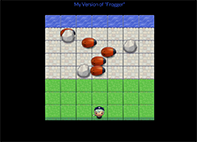
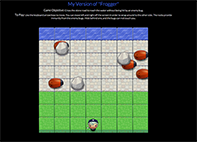
Adjust a tags so don't span entire width.

diff --git a/js/resumeBuilder.js b/js/resumeBuilder.js
@@ -27,7 +27,7 @@ var education = {
         'name': 'Hackbright Academy',
         'location': 'San Francisco, California',
         'place_id': 'ChIJIQBpAG2ahYAR_6128GcTUEo',
-        'degree': 'Technical Training in Full Stack Web Development',
+        'degree': 'Full Stack Web Development',
         'major': 'NA',
         'dates': 'Fall 2014  ',
         'url': 'https://hackbrightacademy.com/'
@@ -54,7 +54,12 @@ var education = {
         'dates': 'Fall 2015 - Winter 2016',
         'url': 'https://www.udacity.com/course/front-end-web-developer-nanodegree--nd001'
     }, {
-        'title': 'Python Courses: Object-Oriented, Collections, Functional Programming, RegEx, Flask',
+        'title': 'How to Use Git and GitHub',
+        'school': 'Udacity',
+        'dates': 'Fall 2015',
+        'url': 'https://www.udacity.com/course/how-to-use-git-and-github--ud775'
+    }, {
+        'title': 'Various Python Courses',
         'school': 'Treehouse',
         'dates': '2015',
         'url': 'https://teamtreehouse.com/'
@@ -115,35 +120,42 @@ var work = {
 };
 
 var projects = {
-    'project' : [{
-        'title' : 'Udacity FrontEnd Nanodegree',
-        'stack' : ['Javascript','jQuery','HTML5','CSS','HTML5 Canvas','GoogleMaps API'],
-        'url' : 'You are here!',
-        'dates' : 'Fall 2015 - Winter 2016',
-        'description' : 'This project is currently in progress and will have six mini projects upon completion. I signed up for the Udacity FrontEnd Nanodegree course in order to work on my fundamental understanding of responsive web design and optimization as well as continuing to work on my HTML, CSS, and Javascript skills. Including this resume page, and the associated portfolio site accompanying this page, I the link above will take you to a list of the pages with a brief description of their highlights.',
-        //'images: {'image href': [alt text, CaptionText, LargeImageSRC, liveURL], image href#2 : [ array of values]}
-        'images' : {'images/portfolio_197x142.png': ['Screenshot of Portfolio Home Page','More Stuff',                                            'images/portfolio_500x360.png'],
+     'project': [{
+      'title': 'Udacity FrontEnd Nanodegree',
+      'stack': ['Javascript', 'jQuery', 'HTML5', 'CSS', 'HTML5 Canvas', 'GoogleMaps API'],
+      'url': 'NA',
+      'dates': 'Fall 2015 - Winter 2016',
+      'description': 'This project is currently in progress and will have six mini projects upon completion. I signed up for the Udacity FrontEnd Nanodegree course in order to work on my fundamental understanding of responsive web design and optimization as well as continuing to work on my HTML, CSS, and Javascript skills. Including this resume page, and the associated portfolio site accompanying this page, I the link above will take you to a list of the pages with a brief description of their highlights.',
+      //'images: {'image href': [alt text, CaptionText, LargeImageSRC, liveURL], image href#2 : [ array of values]}
+      'images': {
+       'images/portfolio_197x142.png': ['Screenshot of Portfolio Home Page', 'More Stuff', 'images/portfolio_500x360.png'],
 
-        'images/resume_197x142.png':['Screenshot of Resume','More words...','images/resume_500x360.png'],
+       'images/resume_197x142.png': ['Screenshot of Resume', 'More words...', 'images/resume_500x360.png'],
 
-        'images/frogger_197x142.png': ['Screenshot of Arcade Game Webpage','Arcade game was designed to Cliche chia wayfarers vinyl distillery godard lomo. Portland 8-bit lumbersexual, viral +1 ugh stumptown. Pug bespoke 3 wolf moon brooklyn, raw denim vegan heirloom gastropub bitters. Meh brunch organic fanny pack tilde street art hammock pinterest, helvetica williamsburg XOXO meggings microdosing farm-to-table.','images/frogger_500x360.png', 'https://www.google.com/']}
-    }, {
-        'title' : 'Getgo',
-        'stack' : ['Python','Javascript','Flask', 'jQuery', 'Ajax', 'Jinja', 'HTML5', 'CSS', 'GoogleMaps API', 'Twitter API'],
-        'url' : 'https://getartandgo.herokuapp.com/',
-        'dates' : 'Fall 2014',
-        'description' : 'Getgo was my capstone project while attending Hackbright Academy. It was independantly developed in five weeks after five weeks of fullstack web development "bootcamp". I wanted to build an application to allow a user to find the best bike route to art and wine venues wuthin a certain distance of their current location within the city of Oakland CA. I also wanted to log the users travels for the day and report their adventure back to them.',
-        'images' : {'images/getgo_197x142.png':["Screenshot of Getgo Application Home Page", "Getgo Stuff", 'images/getgo_500x360.png'], 'images/getgo_route_197x142.png':["Second Screenshot of Getgo Application", "More Getgo Stuff", 'images/getgo_route_500x360.png'], 'images/getgo_report_197x142.png':["Second Screenshot of Getgo Application", "And More Getgo Stuff", 'images/getgo_report_500x360.png']}
-    }, {
-        'title' : 'Spiritual Corky',
-        'stack' : ['Python','Twitter API'],
-        'url' : 'https://twitter.com/spiritual_corky',
-        'dates' : 'Winter 2015',
-        'description' : 'ALSO MENTION N-grams  This project is a Python script I run from my Mac terminal. The script generates a mashup quote from the movies "Waiting for Guffman" and "Jesus Christ Superstar" using <a href = www.google.com class="inline_link">Markov Chains </a>, then uses the Twitter API to create live Twitter feed.',
-        'images' : {'images/corky_197x142.png':["Screenshot of Twitter Feed for Spiritual Corky", "Twitter Stuff", 'images/corky_500x360.png']}
+       'images/frogger_197x142.png': ['Screenshot of Arcade Game Webpage', 'Arcade game was designed to Cliche chia wayfarers vinyl distillery godard lomo. Portland 8-bit lumbersexual, viral +1 ugh stumptown. Pug bespoke 3 wolf moon brooklyn, raw denim vegan heirloom gastropub bitters. Meh brunch organic fanny pack tilde street art hammock pinterest, helvetica williamsburg XOXO meggings microdosing farm-to-table.', 'images/frogger_500x360.png', 'https://www.google.com/']
+      }
+     }, {
+      'title': 'Getgo',
+      'stack': ['Python', 'Javascript', 'Flask', 'jQuery', 'Ajax', 'Jinja', 'HTML5', 'CSS', 'GoogleMaps API', 'Twitter API'],
+      'url': 'https://getartandgo.herokuapp.com/',
+      'dates': 'Fall 2014',
+      'description': 'Getgo was my capstone project while attending Hackbright Academy. It was independantly developed in five weeks after five weeks of fullstack web development "bootcamp". I wanted to build an application to allow a user to find the best bike route to art and wine venues wuthin a certain distance of their current location within the city of Oakland CA. I also wanted to log the users travels for the day and report their adventure back to them.',
+      'images': {
+       'images/getgo_197x142.png': ["Screenshot of Getgo Application Home Page", "Getgo Stuff", 'images/getgo_500x360.png'],
+       'images/getgo_route_197x142.png': ["Second Screenshot of Getgo Application", "More Getgo Stuff", 'images/getgo_route_500x360.png'],
+       'images/getgo_report_197x142.png': ["Second Screenshot of Getgo Application", "And More Getgo Stuff", 'images/getgo_report_500x360.png']
+      }
+     }, {
+      'title': 'Spiritual Corky',
+      'stack': ['Python', 'Twitter API'],
+      'url': 'https://twitter.com/spiritual_corky',
+      'dates': 'Winter 2015',
+      'description': 'ALSO MENTION N-grams  This project is a Python script I run from my Mac terminal. The script generates a mashup quote from the movies "Waiting for Guffman" and "Jesus Christ Superstar" using <a href = www.google.com class="inline_link">Markov Chains </a>, then uses the Twitter API to create live Twitter feed.',
+      'images': {
+       'images/corky_197x142.png': ["Screenshot of Twitter Feed for Spiritual Corky", "Twitter Stuff", 'images/corky_500x360.png']
+      }
      }]
 };
-
 // HEADER Begin
 //Bio via an 'Encapsulating Function'
 var data = '%data%';
@@ -224,14 +236,17 @@ projects.display = function() {
   for (var i=0; i < lenProjects; i++ ) {
     var thisProject = projects.project[i];
     $("#projects").append(HTMLprojectStart);
-    var formattedTitle = HTMLprojectTitle.replace(data, thisProject.title)
-      .replace("#", thisProject.url);
-    var formattedURL = HTMLprojectURL.replace(data, thisProject.url);
-    var formattedTitleURL = formattedTitle + formattedURL;
-    var formattedDates = HTMLprojectDates.replace(data, thisProject.dates);
-    var formattedDescription = HTMLprojectDescription.replace(data,
-      thisProject.description);
-    $(".project-entry:last").append(formattedTitleURL);
+
+    if (thisProject.url === "NA") {
+      var formattedTitle = HTMLprojectTitleNoLink.replace(data, thisProject.title);
+      $(".project-entry:last").append(formattedTitle);
+    } else {
+      var formattedTitle = HTMLprojectTitle.replace(data, thisProject.title)
+        .replace("#", thisProject.url);
+      var formattedURL = HTMLprojectURL.replace(data, thisProject.url);
+      var formattedTitleURL = formattedTitle + formattedURL;
+      $(".project-entry:last").append(formattedTitleURL);
+    }
 
     $(".project-entry:last").append(HTMLstackStart);
     var lenStack = thisProject.stack.length;
@@ -240,7 +255,9 @@ projects.display = function() {
       var formattedStack = HTMLstack.replace(data, thisProject.stack[j]);
       $(".project-entry:last").append(formattedStack + separator);
     }
-
+    var formattedDates = HTMLprojectDates.replace(data, thisProject.dates);
+    var formattedDescription = HTMLprojectDescription.replace(data,
+      thisProject.description);
     $(".project-entry:last").append(formattedDates,formattedDescription);
 
     for (var key in thisProject.images) {
@@ -249,7 +266,7 @@ projects.display = function() {
       $(".project-entry:last").append(formattedImage);
     }
   }
-// Start Lightbox code
+  // Start Lightbox code
   var $overlay = $("<div id='overlay'></div>");
   var $image = $("<img class='lightbox-img'>");
   var $caption = $("<p class='project-focus'></p>");

diff --git a/js/helper.js b/js/helper.js
@@ -29,6 +29,7 @@ var HTMLworkDescription = '<p><br>%data%</p>';
 
 var HTMLprojectStart = '<div class="project-entry"></div>';
 var HTMLprojectTitle = '<a href="#" target="_blank">%data%';
+var HTMLprojectTitleNoLink = '<div>%data%</div>';
 var HTMLprojectURL = ' — %data%</a>';
 var HTMLstackStart = '<div class="stack">Stack:  </div>';
 var HTMLstack = '<div class="stack">%data% </div>';
@@ -49,7 +50,7 @@ var HTMLonlineClasses = '<h3>Online Classes</h3>';
 var HTMLonlineTitle = '<a href="#" target="_blank">%data%';
 var HTMLonlineSchool = ' — %data%</a>';
 var HTMLonlineDates = '<div class="date-text">%data%</div>';
-var HTMLonlineURL = '<a href="#" target="_blank">%data%</a>';
+var HTMLonlineURL = '<br><a href="#" target="_blank" class="onlineclassUrl">%data%</a>';
 
 var internationalizeButton = '<button>Internationalize</button>';
 var googleMap = '<div id="map"></div>';

diff --git a/css/style.css b/css/style.css
@@ -97,7 +97,25 @@ a {
     text-decoration: none;
     margin-top: 10px;
     display: block;
+
 }
+
+.project-entry a {
+  width: 33%;
+}
+
+.work-entry a {
+  width: 28%;
+}
+
+.education-entry a {
+  width: 35%;
+}
+
+.onlineclassUrl {
+  margin-top: 0;
+}
+
 .project-img{
   margin-top: 10px;
   margin-right: 15px;
